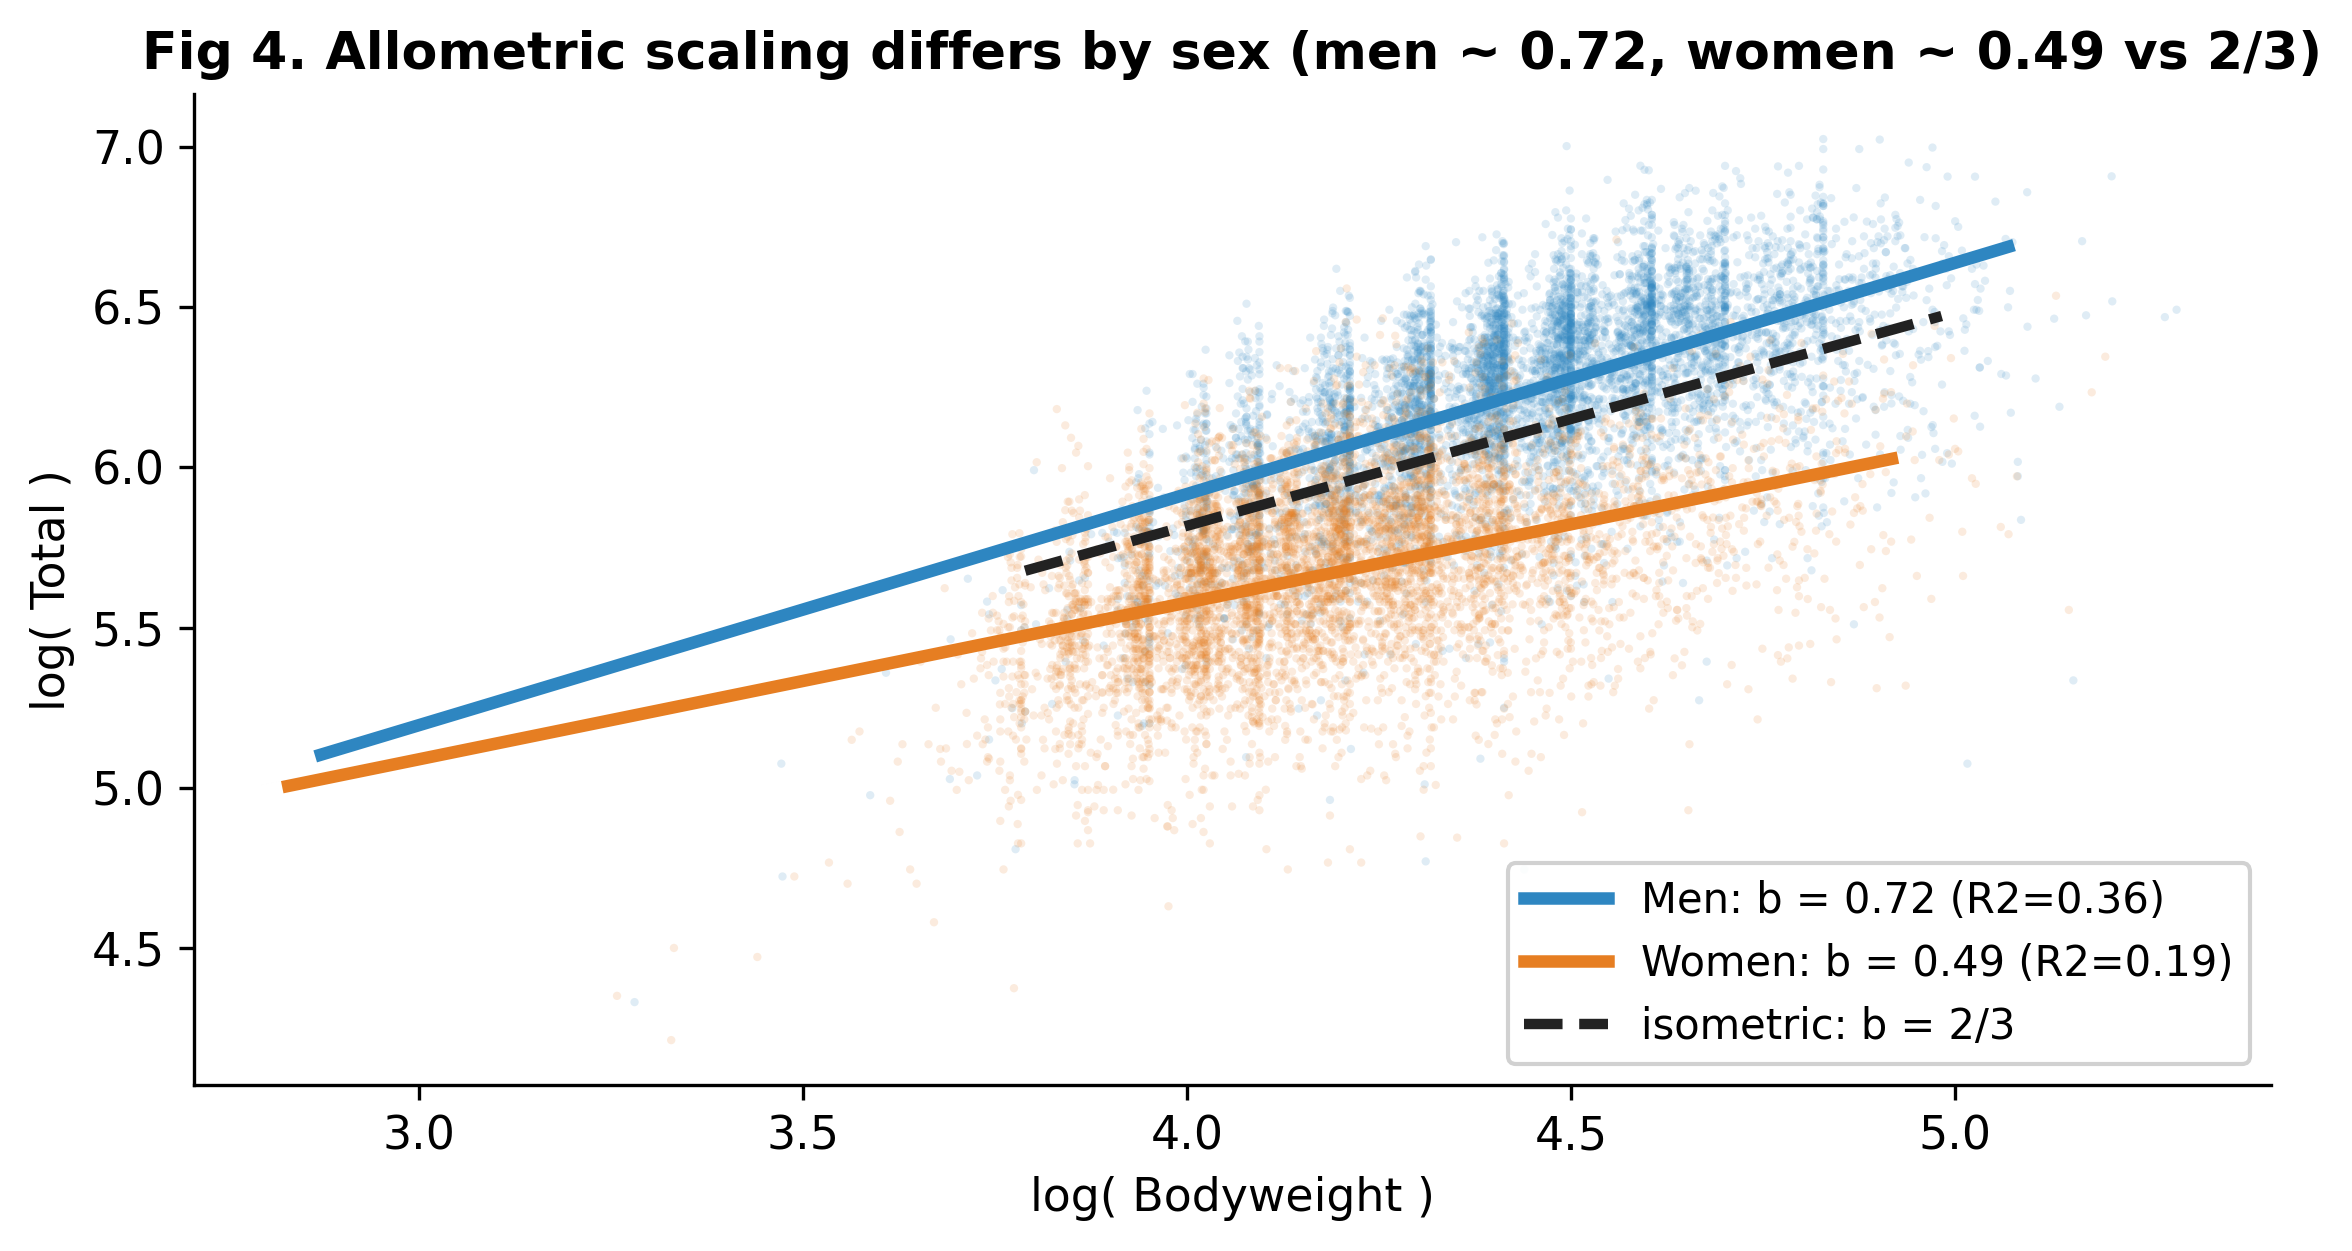
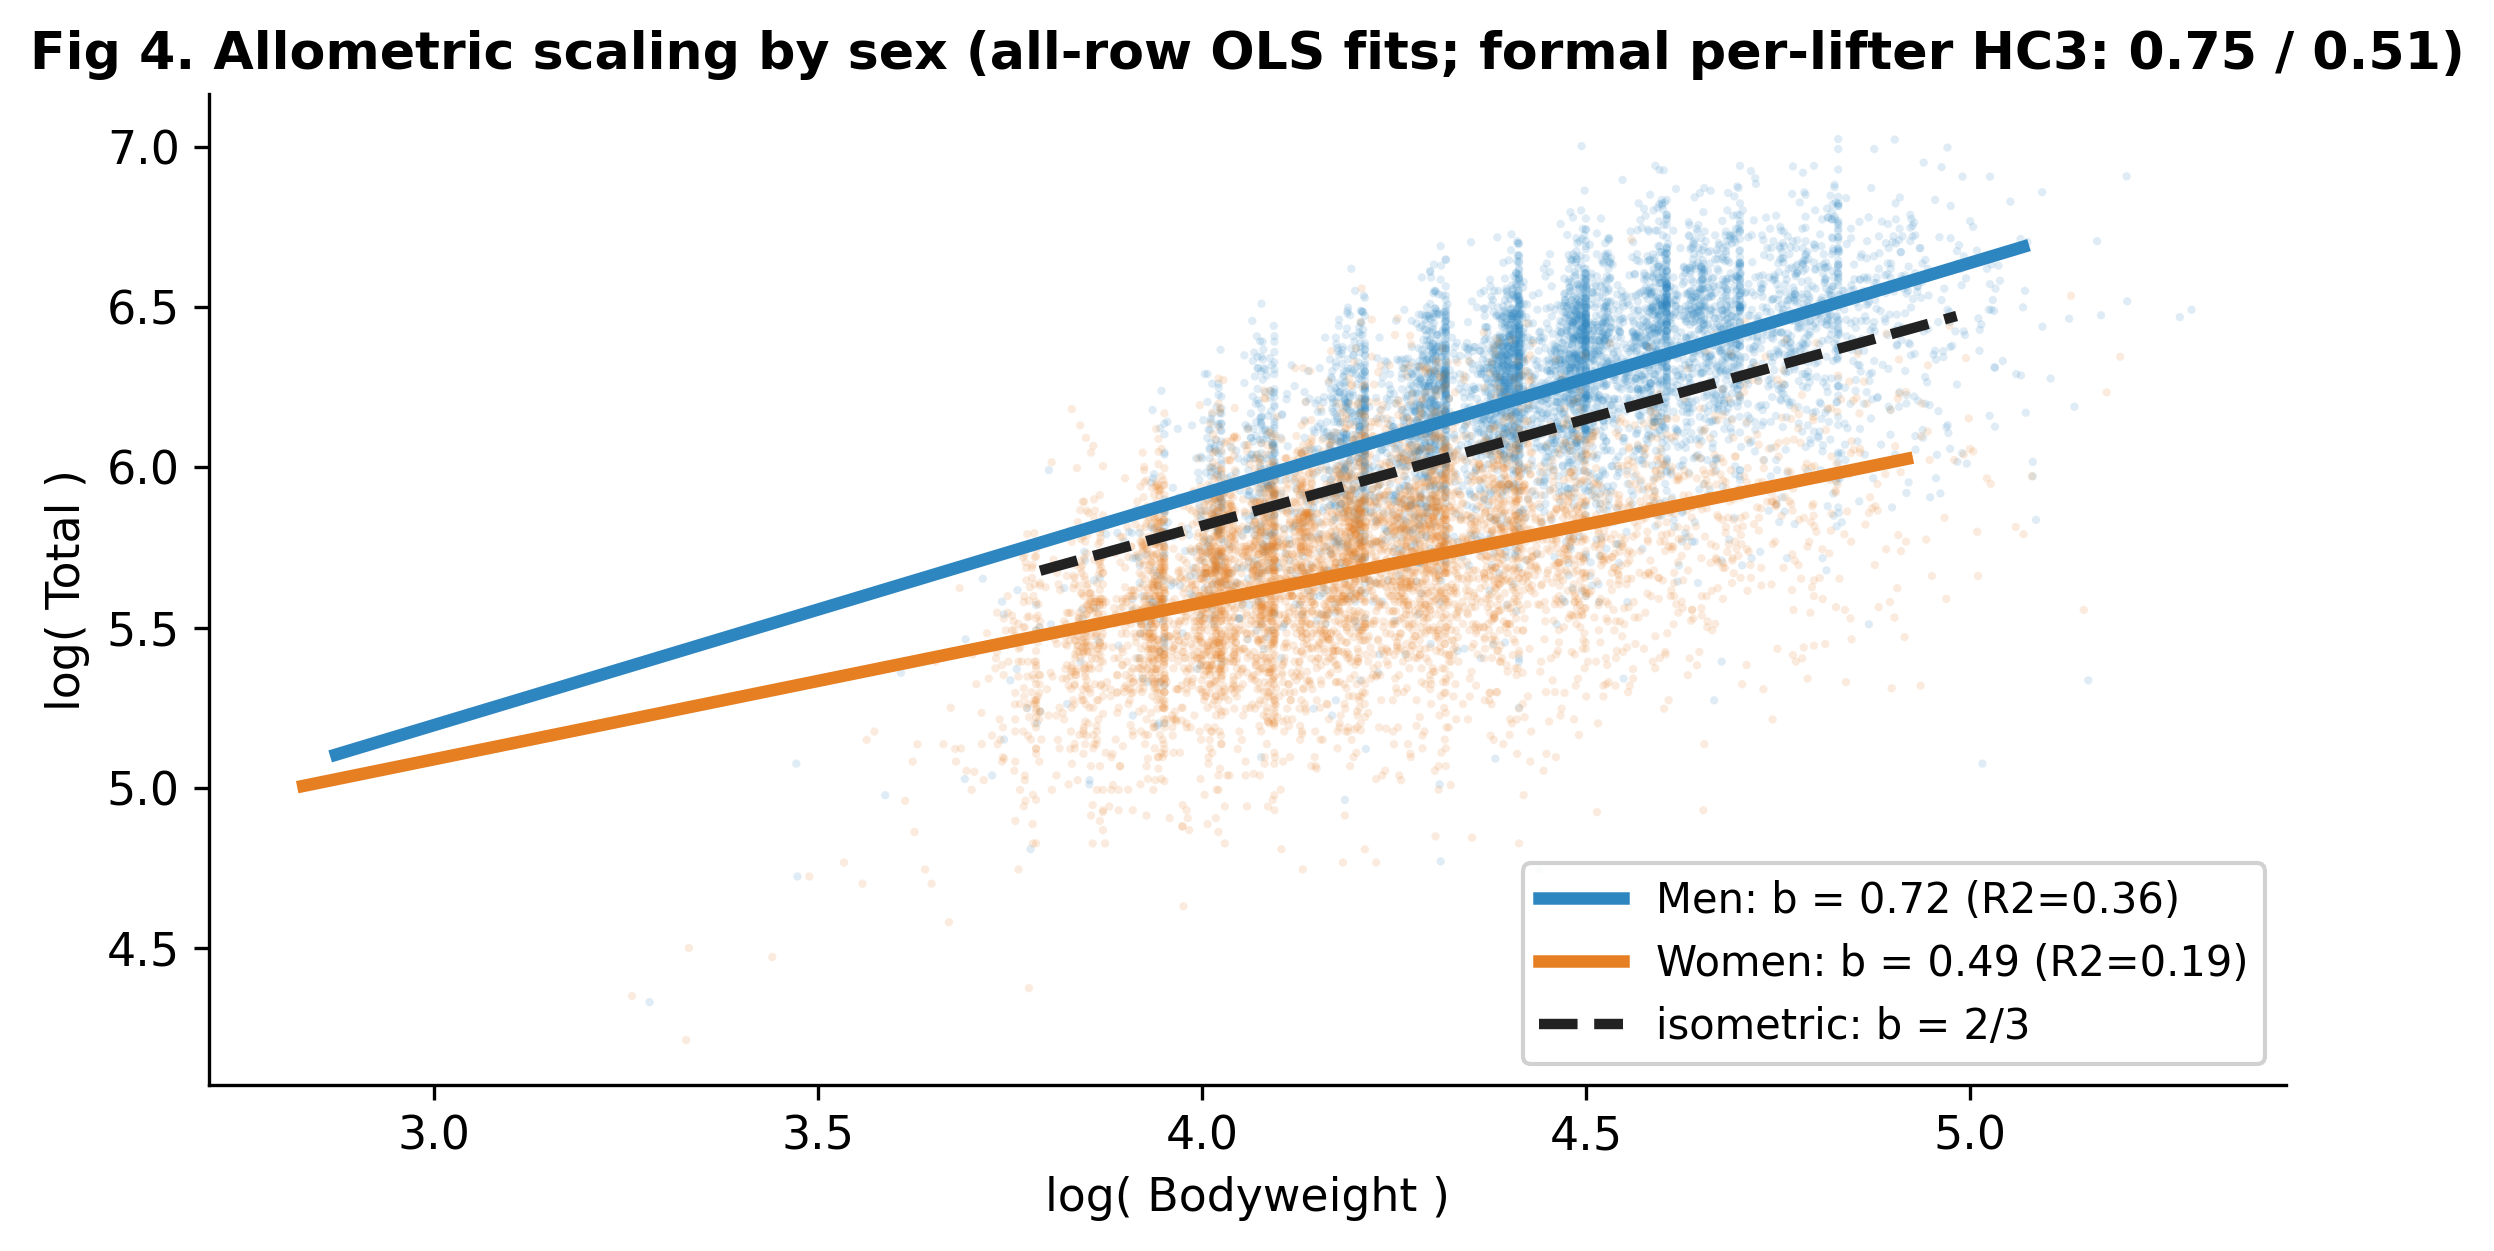
Phase 6 review fixes: figure/notebook consistency with the analysis
- Fig 4 title now states it is the all-row OLS fit and notes the formal per-lifter
  HC3 estimates (0.75/0.51), so it is not confused with H3's formal numbers.
- fig_breadth SPRT stop now checks BOTH boundaries (matches breadth_tools).
- Notebook: 'EVT ceiling' -> 'EVT upper-tail (ceiling NOT supported; xi CI includes
  0)'; H3 section notes Fig 4 is all-row descriptive vs the formal per-lifter values.
- Notebook cells given ids (clean nbformat validation).
Review found no critical/moderate analysis errors; these are consistency fixes.

diff --git a/src/figures.py b/src/figures.py
@@ -106,7 +106,7 @@ def fig_allometry(al):
     xr = np.linspace(np.percentile(allx, 1), np.percentile(allx, 99), 50)
     ax.plot(xr, ybar + (2 / 3) * (xr - xbar), color="#222", lw=2.5, ls="--", label="isometric: b = 2/3")
     ax.set_xlabel("log( Bodyweight )"); ax.set_ylabel("log( Total )")
-    ax.set_title("Fig 4. Allometric scaling differs by sex (men ~ 0.72, women ~ 0.49 vs 2/3)")
+    ax.set_title("Fig 4. Allometric scaling by sex (all-row OLS fits; formal per-lifter HC3: 0.75 / 0.51)")
     ax.legend(frameon=True, framealpha=0.9, loc="lower right", fontsize=10)
     save(fig, "fig4_allometry.png")
 
@@ -153,7 +153,8 @@ def fig_breadth(men_recent_chrono):
     A = np.log((1 - beta) / alpha); B = np.log(beta / (1 - alpha))
     s1, s0 = np.log(p1 / p0), np.log((1 - p1) / (1 - p0))
     inc = np.where(obs == 1, s1, s0); llr = np.cumsum(inc)
-    stop = int(np.argmax(llr >= A)) + 1 if (llr >= A).any() else len(llr)
+    crossed = (llr >= A) | (llr <= B)               # stop at first crossing of EITHER boundary
+    stop = int(np.argmax(crossed)) + 1 if crossed.any() else len(llr)
     fig, (a1, a2) = plt.subplots(1, 2, figsize=(9.6, 4.0))
     a1.plot(np.arange(1, min(stop + 15, len(llr)) + 1), llr[:min(stop + 15, len(llr))], color=C_M, lw=1.8)
     a1.axhline(A, color=C_GRID, ls="--", lw=1.5, label=f"accept H1 (A={A:.2f})")